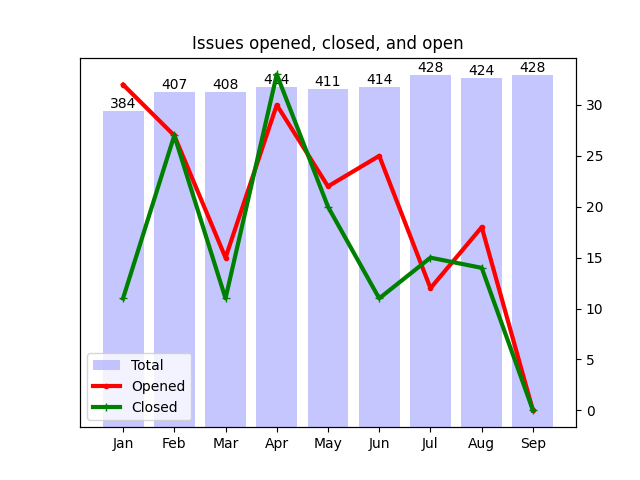
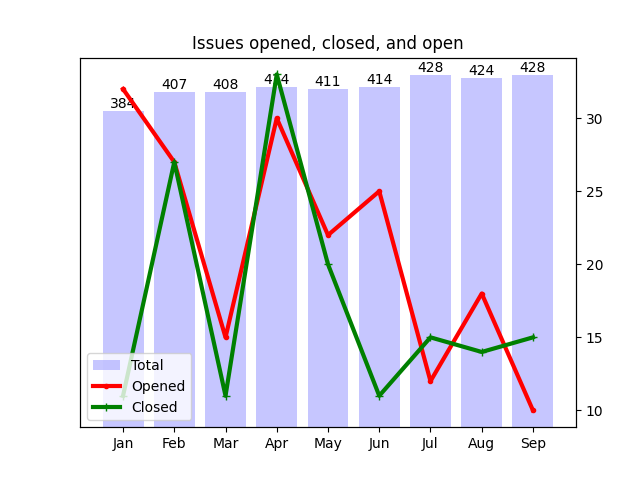
Apply automatic changes

diff --git a/docs/analytics.html b/docs/analytics.html
@@ -109,8 +109,8 @@ td .material-icons { display:inline-flex; vertical-align: top; font-size:1.1rem;
 						</tr>
 						<tr>
 							<td>Sep</td>
-							<td>0</td>
-							<td>0</td>
+							<td>10</td>
+							<td>15</td>
 						</tr>
 					</table>
 				</div>
@@ -154,7 +154,7 @@ td .material-icons { display:inline-flex; vertical-align: top; font-size:1.1rem;
 							<td>
 								<a href="http://github.com/notofonts/arabic/issues">arabic</a>
 							</td>
-							<td>10</td>
+							<td>11</td>
 						</tr>
 						<tr>
 							<td>
@@ -176,15 +176,15 @@ td .material-icons { display:inline-flex; vertical-align: top; font-size:1.1rem;
 						</tr>
 						<tr>
 							<td>
-								<a href="http://github.com/notofonts/malayalam/issues">malayalam</a>
-							</td>
-							<td>8</td>
-						</tr>
-						<tr>
-							<td>
 								<a href="http://github.com/notofonts/kannada/issues">kannada</a>
 							</td>
 							<td>7</td>
+						</tr>
+						<tr>
+							<td>
+								<a href="http://github.com/notofonts/dives-akuru/issues">dives-akuru</a>
+							</td>
+							<td>6</td>
 						</tr>
 					</table>
 				</div>
@@ -201,13 +201,13 @@ td .material-icons { display:inline-flex; vertical-align: top; font-size:1.1rem;
 				<tr>
 					<td>1</td>
 					<td>
-						<a href="http://github.com/notofonts/chakma/issues">chakma</a>,  						<a href="http://github.com/notofonts/chorasmian/issues">chorasmian</a>,  						<a href="http://github.com/notofonts/deseret/issues">deseret</a>,  						<a href="http://github.com/notofonts/dogra/issues">dogra</a>,  						<a href="http://github.com/notofonts/duployan/issues">duployan</a>,  						<a href="http://github.com/notofonts/elbasan/issues">elbasan</a>,  						<a href="http://github.com/notofonts/ethiopic/issues">ethiopic</a>,  						<a href="http://github.com/notofonts/glagolitic/issues">glagolitic</a>,  						<a href="http://github.com/notofonts/hanunoo/issues">hanunoo</a>,  						<a href="http://github.com/notofonts/inscriptional-pahlavi/issues">inscriptional-pahlavi</a>,  						<a href="http://github.com/notofonts/kharoshthi/issues">kharoshthi</a>,  						<a href="http://github.com/notofonts/khitan-small-script/issues">khitan-small-script</a>,  						<a href="http://github.com/notofonts/khmer/issues">khmer</a>,  						<a href="http://github.com/notofonts/khudawadi/issues">khudawadi</a>,  						<a href="http://github.com/notofonts/lao/issues">lao</a>,  						<a href="http://github.com/notofonts/masaram-gondi/issues">masaram-gondi</a>,  						<a href="http://github.com/notofonts/meetei-mayek/issues">meetei-mayek</a>,  						<a href="http://github.com/notofonts/miao/issues">miao</a>,  						<a href="http://github.com/notofonts/mongolian/issues">mongolian</a>,  						<a href="http://github.com/notofonts/nag-mundari/issues">nag-mundari</a>,  						<a href="http://github.com/notofonts/nko/issues">nko</a>,  						<a href="http://github.com/notofonts/old-italic/issues">old-italic</a>,  						<a href="http://github.com/notofonts/old-turkic/issues">old-turkic</a>,  						<a href="http://github.com/notofonts/pahawh-hmong/issues">pahawh-hmong</a>,  						<a href="http://github.com/notofonts/pau-cin-hau/issues">pau-cin-hau</a>,  						<a href="http://github.com/notofonts/phags-pa/issues">phags-pa</a>,  						<a href="http://github.com/notofonts/rejang/issues">rejang</a>,  						<a href="http://github.com/notofonts/saurashtra/issues">saurashtra</a>,  						<a href="http://github.com/notofonts/sogdian/issues">sogdian</a>,  						<a href="http://github.com/notofonts/sundanese/issues">sundanese</a>,  						<a href="http://github.com/notofonts/tai-le/issues">tai-le</a>,  						<a href="http://github.com/notofonts/tai-tham/issues">tai-tham</a>,  						<a href="http://github.com/notofonts/takri/issues">takri</a>,  						<a href="http://github.com/notofonts/tangsa/issues">tangsa</a>,  						<a href="http://github.com/notofonts/thaana/issues">thaana</a>,  						<a href="http://github.com/notofonts/toto/issues">toto</a> 
+						<a href="http://github.com/notofonts/chakma/issues">chakma</a>,  						<a href="http://github.com/notofonts/chorasmian/issues">chorasmian</a>,  						<a href="http://github.com/notofonts/deseret/issues">deseret</a>,  						<a href="http://github.com/notofonts/dogra/issues">dogra</a>,  						<a href="http://github.com/notofonts/duployan/issues">duployan</a>,  						<a href="http://github.com/notofonts/elbasan/issues">elbasan</a>,  						<a href="http://github.com/notofonts/ethiopic/issues">ethiopic</a>,  						<a href="http://github.com/notofonts/glagolitic/issues">glagolitic</a>,  						<a href="http://github.com/notofonts/inscriptional-pahlavi/issues">inscriptional-pahlavi</a>,  						<a href="http://github.com/notofonts/kharoshthi/issues">kharoshthi</a>,  						<a href="http://github.com/notofonts/khitan-small-script/issues">khitan-small-script</a>,  						<a href="http://github.com/notofonts/khmer/issues">khmer</a>,  						<a href="http://github.com/notofonts/khudawadi/issues">khudawadi</a>,  						<a href="http://github.com/notofonts/lao/issues">lao</a>,  						<a href="http://github.com/notofonts/masaram-gondi/issues">masaram-gondi</a>,  						<a href="http://github.com/notofonts/meetei-mayek/issues">meetei-mayek</a>,  						<a href="http://github.com/notofonts/mongolian/issues">mongolian</a>,  						<a href="http://github.com/notofonts/nag-mundari/issues">nag-mundari</a>,  						<a href="http://github.com/notofonts/nko/issues">nko</a>,  						<a href="http://github.com/notofonts/old-italic/issues">old-italic</a>,  						<a href="http://github.com/notofonts/old-turkic/issues">old-turkic</a>,  						<a href="http://github.com/notofonts/pau-cin-hau/issues">pau-cin-hau</a>,  						<a href="http://github.com/notofonts/phags-pa/issues">phags-pa</a>,  						<a href="http://github.com/notofonts/rejang/issues">rejang</a>,  						<a href="http://github.com/notofonts/saurashtra/issues">saurashtra</a>,  						<a href="http://github.com/notofonts/sogdian/issues">sogdian</a>,  						<a href="http://github.com/notofonts/sundanese/issues">sundanese</a>,  						<a href="http://github.com/notofonts/tai-tham/issues">tai-tham</a>,  						<a href="http://github.com/notofonts/takri/issues">takri</a>,  						<a href="http://github.com/notofonts/tangsa/issues">tangsa</a>,  						<a href="http://github.com/notofonts/thaana/issues">thaana</a>,  						<a href="http://github.com/notofonts/toto/issues">toto</a> 
 					</td>
 				</tr>
 				<tr>
 					<td>2</td>
 					<td>
-						<a href="http://github.com/notofonts/adlam/issues">adlam</a>,  						<a href="http://github.com/notofonts/armenian/issues">armenian</a>,  						<a href="http://github.com/notofonts/brahmi/issues">brahmi</a>,  						<a href="http://github.com/notofonts/coptic/issues">coptic</a>,  						<a href="http://github.com/notofonts/cuneiform/issues">cuneiform</a>,  						<a href="http://github.com/notofonts/mandaic/issues">mandaic</a>,  						<a href="http://github.com/notofonts/music/issues">music</a>,  						<a href="http://github.com/notofonts/old-hungarian-ui/issues">old-hungarian-ui</a>,  						<a href="http://github.com/notofonts/oriya/issues">oriya</a>,  						<a href="http://github.com/notofonts/sign-writing/issues">sign-writing</a>,  						<a href="http://github.com/notofonts/tagalog/issues">tagalog</a>,  						<a href="http://github.com/notofonts/tamil/issues">tamil</a>,  						<a href="http://github.com/notofonts/telugu/issues">telugu</a> 
+						<a href="http://github.com/notofonts/adlam/issues">adlam</a>,  						<a href="http://github.com/notofonts/armenian/issues">armenian</a>,  						<a href="http://github.com/notofonts/brahmi/issues">brahmi</a>,  						<a href="http://github.com/notofonts/coptic/issues">coptic</a>,  						<a href="http://github.com/notofonts/cuneiform/issues">cuneiform</a>,  						<a href="http://github.com/notofonts/devanagari/issues">devanagari</a>,  						<a href="http://github.com/notofonts/gunjala-gondi/issues">gunjala-gondi</a>,  						<a href="http://github.com/notofonts/mandaic/issues">mandaic</a>,  						<a href="http://github.com/notofonts/music/issues">music</a>,  						<a href="http://github.com/notofonts/old-hungarian-ui/issues">old-hungarian-ui</a>,  						<a href="http://github.com/notofonts/oriya/issues">oriya</a>,  						<a href="http://github.com/notofonts/sign-writing/issues">sign-writing</a>,  						<a href="http://github.com/notofonts/tagalog/issues">tagalog</a>,  						<a href="http://github.com/notofonts/tamil/issues">tamil</a>,  						<a href="http://github.com/notofonts/telugu/issues">telugu</a> 
 					</td>
 				</tr>
 				<tr>
@@ -225,25 +225,19 @@ td .material-icons { display:inline-flex; vertical-align: top; font-size:1.1rem;
 				<tr>
 					<td>5</td>
 					<td>
-						<a href="http://github.com/notofonts/bengali/issues">bengali</a>,  						<a href="http://github.com/notofonts/bhaiksuki/issues">bhaiksuki</a>,  						<a href="http://github.com/notofonts/devanagari/issues">devanagari</a>,  						<a href="http://github.com/notofonts/gurmukhi/issues">gurmukhi</a>,  						<a href="http://github.com/notofonts/kawi/issues">kawi</a>,  						<a href="http://github.com/notofonts/nastaliq/issues">nastaliq</a>,  						<a href="http://github.com/notofonts/old-hungarian/issues">old-hungarian</a>,  						<a href="http://github.com/notofonts/syloti-nagri/issues">syloti-nagri</a> 
+						<a href="http://github.com/notofonts/bengali/issues">bengali</a>,  						<a href="http://github.com/notofonts/bhaiksuki/issues">bhaiksuki</a>,  						<a href="http://github.com/notofonts/gurmukhi/issues">gurmukhi</a>,  						<a href="http://github.com/notofonts/kawi/issues">kawi</a>,  						<a href="http://github.com/notofonts/nastaliq/issues">nastaliq</a>,  						<a href="http://github.com/notofonts/syloti-nagri/issues">syloti-nagri</a> 
 					</td>
 				</tr>
 				<tr>
 					<td>6</td>
 					<td>
-						<a href="http://github.com/notofonts/dives-akuru/issues">dives-akuru</a>,  						<a href="http://github.com/notofonts/egyptian-hieroglyphs/issues">egyptian-hieroglyphs</a>,  						<a href="http://github.com/notofonts/gujarati/issues">gujarati</a>,  						<a href="http://github.com/notofonts/modi/issues">modi</a> 
+						<a href="http://github.com/notofonts/dives-akuru/issues">dives-akuru</a>,  						<a href="http://github.com/notofonts/egyptian-hieroglyphs/issues">egyptian-hieroglyphs</a>,  						<a href="http://github.com/notofonts/gujarati/issues">gujarati</a>,  						<a href="http://github.com/notofonts/malayalam/issues">malayalam</a>,  						<a href="http://github.com/notofonts/modi/issues">modi</a>,  						<a href="http://github.com/notofonts/old-hungarian/issues">old-hungarian</a> 
 					</td>
 				</tr>
 				<tr>
 					<td>7</td>
 					<td>
 						<a href="http://github.com/notofonts/kannada/issues">kannada</a> 
-					</td>
-				</tr>
-				<tr>
-					<td>8</td>
-					<td>
-						<a href="http://github.com/notofonts/malayalam/issues">malayalam</a> 
 					</td>
 				</tr>
 				<tr>
@@ -255,7 +249,7 @@ td .material-icons { display:inline-flex; vertical-align: top; font-size:1.1rem;
 				<tr>
 					<td>10</td>
 					<td>
-						<a href="http://github.com/notofonts/arabic/issues">arabic</a>,  						<a href="http://github.com/notofonts/tirhuta/issues">tirhuta</a> 
+						<a href="http://github.com/notofonts/tirhuta/issues">tirhuta</a> 
 					</td>
 				</tr>
 			</table>
@@ -274,23 +268,23 @@ td .material-icons { display:inline-flex; vertical-align: top; font-size:1.1rem;
 
 									<a href="http://github.com/notofonts/hebrew/issues">hebrew</a>: 14, 
 
-									<a href="http://github.com/notofonts/arabic/issues">arabic</a>: 10, 
-
-									<a href="http://github.com/notofonts/malayalam/issues">malayalam</a>: 8, 
+									<a href="http://github.com/notofonts/arabic/issues">arabic</a>: 11, 
 
 									<a href="http://github.com/notofonts/kannada/issues">kannada</a>: 7, 
 
 									<a href="http://github.com/notofonts/gujarati/issues">gujarati</a>: 6, 
 
-									<a href="http://github.com/notofonts/bengali/issues">bengali</a>: 5, 
+									<a href="http://github.com/notofonts/malayalam/issues">malayalam</a>: 6, 
 
-									<a href="http://github.com/notofonts/devanagari/issues">devanagari</a>: 5, 
+									<a href="http://github.com/notofonts/bengali/issues">bengali</a>: 5, 
 
 									<a href="http://github.com/notofonts/gurmukhi/issues">gurmukhi</a>: 5, 
 
 									<a href="http://github.com/notofonts/nastaliq/issues">nastaliq</a>: 5, 
 
 									<a href="http://github.com/notofonts/armenian/issues">armenian</a>: 2, 
+
+									<a href="http://github.com/notofonts/devanagari/issues">devanagari</a>: 2, 
 
 									<a href="http://github.com/notofonts/oriya/issues">oriya</a>: 2, 
 
@@ -350,6 +344,8 @@ td .material-icons { display:inline-flex; vertical-align: top; font-size:1.1rem;
 
 									<a href="http://github.com/notofonts/coptic/issues">coptic</a>: 2, 
 
+									<a href="http://github.com/notofonts/gunjala-gondi/issues">gunjala-gondi</a>: 2, 
+
 									<a href="http://github.com/notofonts/music/issues">music</a>: 2, 
 
 									<a href="http://github.com/notofonts/sign-writing/issues">sign-writing</a>: 2, 
@@ -360,23 +356,17 @@ td .material-icons { display:inline-flex; vertical-align: top; font-size:1.1rem;
 
 									<a href="http://github.com/notofonts/duployan/issues">duployan</a>: 1, 
 
-									<a href="http://github.com/notofonts/hanunoo/issues">hanunoo</a>: 1, 
-
 									<a href="http://github.com/notofonts/lao/issues">lao</a>: 1, 
 
 									<a href="http://github.com/notofonts/masaram-gondi/issues">masaram-gondi</a>: 1, 
 
 									<a href="http://github.com/notofonts/meetei-mayek/issues">meetei-mayek</a>: 1, 
 
-									<a href="http://github.com/notofonts/miao/issues">miao</a>: 1, 
-
 									<a href="http://github.com/notofonts/mongolian/issues">mongolian</a>: 1, 
 
 									<a href="http://github.com/notofonts/nag-mundari/issues">nag-mundari</a>: 1, 
 
 									<a href="http://github.com/notofonts/nko/issues">nko</a>: 1, 
-
-									<a href="http://github.com/notofonts/pahawh-hmong/issues">pahawh-hmong</a>: 1, 
 
 									<a href="http://github.com/notofonts/pau-cin-hau/issues">pau-cin-hau</a>: 1, 
 
@@ -385,8 +375,6 @@ td .material-icons { display:inline-flex; vertical-align: top; font-size:1.1rem;
 									<a href="http://github.com/notofonts/saurashtra/issues">saurashtra</a>: 1, 
 
 									<a href="http://github.com/notofonts/sundanese/issues">sundanese</a>: 1, 
-
-									<a href="http://github.com/notofonts/tai-le/issues">tai-le</a>: 1, 
 
 									<a href="http://github.com/notofonts/tai-tham/issues">tai-tham</a>: 1, 
 
@@ -406,9 +394,9 @@ td .material-icons { display:inline-flex; vertical-align: top; font-size:1.1rem;
 
 									<a href="http://github.com/notofonts/egyptian-hieroglyphs/issues">egyptian-hieroglyphs</a>: 6, 
 
-									<a href="http://github.com/notofonts/kawi/issues">kawi</a>: 5, 
+									<a href="http://github.com/notofonts/old-hungarian/issues">old-hungarian</a>: 6, 
 
-									<a href="http://github.com/notofonts/old-hungarian/issues">old-hungarian</a>: 5, 
+									<a href="http://github.com/notofonts/kawi/issues">kawi</a>: 5, 
 
 									<a href="http://github.com/notofonts/soyombo/issues">soyombo</a>: 4, 
 
